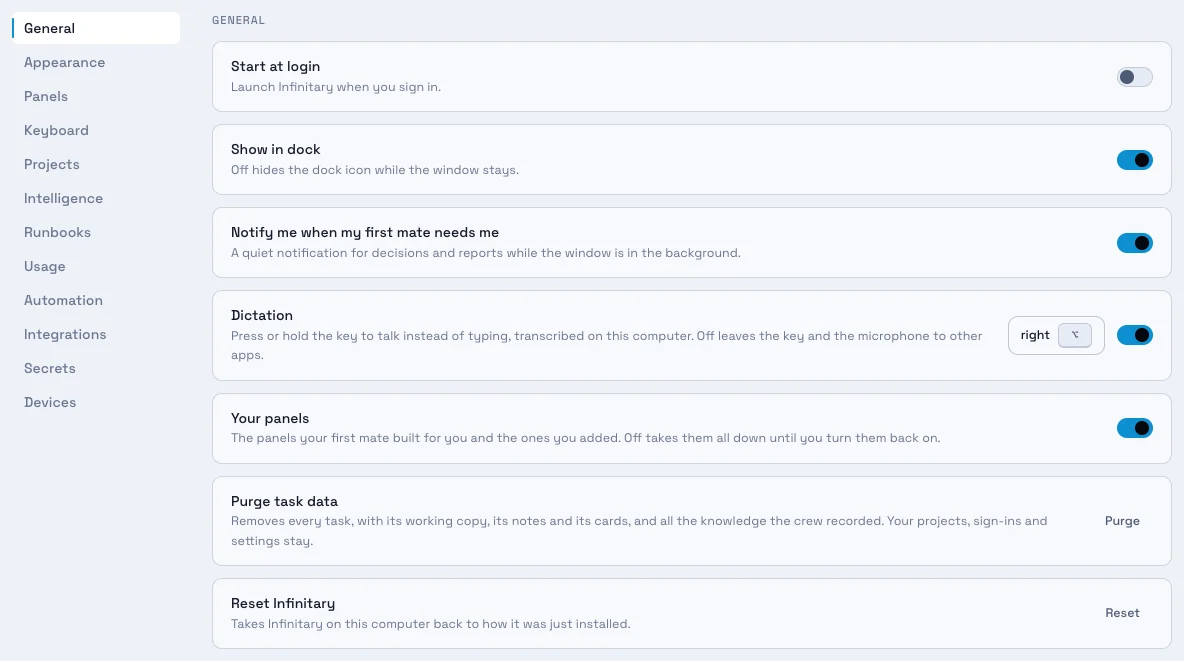
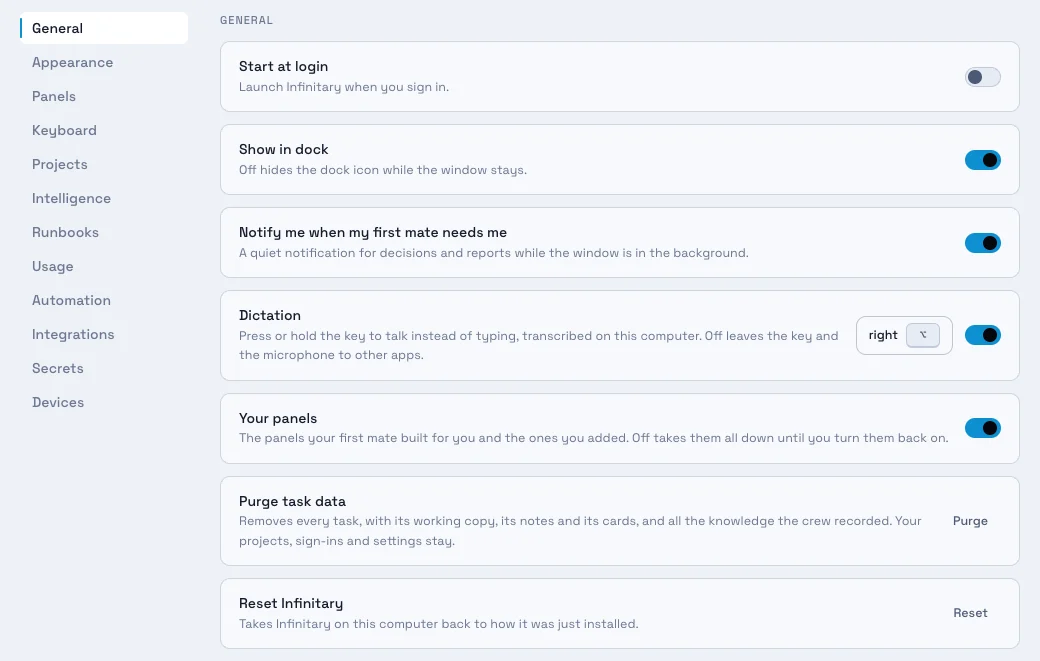
docs(docs-site): retake the Settings picture at the earlier picture's scale
The retaken pair was wider than the pair it replaced, which drew its
text smaller on the page. This pair comes from a window as wide as the
earlier picture's, so the rows read at the same size and the picture is
taller by the Reset Infinitary row alone.

diff --git a/docs-site/src/content/docs/de/settings.md b/docs-site/src/content/docs/de/settings.md
@@ -1,5 +1,5 @@
 ---
-source: a0cdeb238cc2527f
+source: ea34c1740306756c
 title: Einstellungen
 description: Was jeder Bereich der Einstellungen enthält – Allgemein und Erscheinungsbild hier erklärt, für den Rest ein Link.
 ---
@@ -10,8 +10,8 @@ Die Pfeiltasten nach oben und unten wechseln zwischen ihnen, und Escape oder **Z
 
 Du kannst deinen ersten Offizier auch bitten, eine Einstellung für dich zu ändern, etwa „Wechsle zum hellen Design“ oder „Schalte Ambient-Musik ein“.
 
-<img class="picture-dark" src="/pictures/settings-dark.webp" alt="Die Einstellungen sind auf „Allgemein“ geöffnet: links die zwölf Bereiche von „Allgemein“ bis „Geräte“, daneben die Zeilen „Bei Anmeldung starten“, „Im Dock anzeigen“, Benachrichtigung, „Diktat“, „Deine Panels“, „Aufgabendaten endgültig löschen“ und „Infinitary zurücksetzen“." width="1184" height="661" />
-<img class="picture-light" src="/pictures/settings-light.webp" alt="Die Einstellungen sind auf „Allgemein“ geöffnet: links die zwölf Bereiche von „Allgemein“ bis „Geräte“, daneben die Zeilen „Bei Anmeldung starten“, „Im Dock anzeigen“, Benachrichtigung, „Diktat“, „Deine Panels“, „Aufgabendaten endgültig löschen“ und „Infinitary zurücksetzen“." width="1184" height="661" />
+<img class="picture-dark" src="/pictures/settings-dark.webp" alt="Die Einstellungen sind auf „Allgemein“ geöffnet: links die zwölf Bereiche von „Allgemein“ bis „Geräte“, daneben die Zeilen „Bei Anmeldung starten“, „Im Dock anzeigen“, Benachrichtigung, „Diktat“, „Deine Panels“, „Aufgabendaten endgültig löschen“ und „Infinitary zurücksetzen“." width="1040" height="661" />
+<img class="picture-light" src="/pictures/settings-light.webp" alt="Die Einstellungen sind auf „Allgemein“ geöffnet: links die zwölf Bereiche von „Allgemein“ bis „Geräte“, daneben die Zeilen „Bei Anmeldung starten“, „Im Dock anzeigen“, Benachrichtigung, „Diktat“, „Deine Panels“, „Aufgabendaten endgültig löschen“ und „Infinitary zurücksetzen“." width="1040" height="661" />
 
 ## Die Bereiche {#the-sections}
 

diff --git a/docs-site/src/content/docs/fr/settings.md b/docs-site/src/content/docs/fr/settings.md
@@ -1,5 +1,5 @@
 ---
-source: a0cdeb238cc2527f
+source: ea34c1740306756c
 title: Réglages
 description: Ce que contient chaque section des Réglages, avec Général et Apparence expliqués ici et un lien pour le reste.
 ---
@@ -10,8 +10,8 @@ Les flèches haut et bas passent de l’une à l’autre, et Escape ou **Retour*
 
 Vous pouvez aussi demander à votre second de changer un réglage pour vous, par exemple « passe au thème clair » ou « active la musique d’ambiance ».
 
-<img class="picture-dark" src="/pictures/settings-dark.webp" alt="Les Réglages ouverts sur Général : les douze sections sur la gauche, de Général à Appareils, et les lignes Ouvrir à la connexion, Afficher dans le Dock, notification, Dictée, Vos panneaux, Effacer les données des tâches et Réinitialiser Infinitary." width="1184" height="661" />
-<img class="picture-light" src="/pictures/settings-light.webp" alt="Les Réglages ouverts sur Général : les douze sections sur la gauche, de Général à Appareils, et les lignes Ouvrir à la connexion, Afficher dans le Dock, notification, Dictée, Vos panneaux, Effacer les données des tâches et Réinitialiser Infinitary." width="1184" height="661" />
+<img class="picture-dark" src="/pictures/settings-dark.webp" alt="Les Réglages ouverts sur Général : les douze sections sur la gauche, de Général à Appareils, et les lignes Ouvrir à la connexion, Afficher dans le Dock, notification, Dictée, Vos panneaux, Effacer les données des tâches et Réinitialiser Infinitary." width="1040" height="661" />
+<img class="picture-light" src="/pictures/settings-light.webp" alt="Les Réglages ouverts sur Général : les douze sections sur la gauche, de Général à Appareils, et les lignes Ouvrir à la connexion, Afficher dans le Dock, notification, Dictée, Vos panneaux, Effacer les données des tâches et Réinitialiser Infinitary." width="1040" height="661" />
 
 ## Les sections {#the-sections}
 

diff --git a/docs-site/src/content/docs/es/settings.md b/docs-site/src/content/docs/es/settings.md
@@ -1,5 +1,5 @@
 ---
-source: a0cdeb238cc2527f
+source: ea34c1740306756c
 title: Configuración
 description: Lo que contiene cada sección de Configuración, con General y Apariencia explicadas aquí y un enlace para el resto.
 ---
@@ -10,8 +10,8 @@ Las flechas arriba y abajo se mueven entre ellas, y Escape o **Atrás** salen de
 
 También puedes pedirle a tu primer oficial que cambie una opción por ti, como «cambia al tema claro» o «activa la música ambiental».
 
-<img class="picture-dark" src="/pictures/settings-dark.webp" alt="Configuración abierta en General: las doce secciones a la izquierda, de General a Devices, y las filas Start at login, Show in dock, notificaciones, Dictation, Your panels, Purge task data y Reset Infinitary." width="1184" height="661" />
-<img class="picture-light" src="/pictures/settings-light.webp" alt="Configuración abierta en General: las doce secciones a la izquierda, de General a Devices, y las filas Start at login, Show in dock, notificaciones, Dictation, Your panels, Purge task data y Reset Infinitary." width="1184" height="661" />
+<img class="picture-dark" src="/pictures/settings-dark.webp" alt="Configuración abierta en General: las doce secciones a la izquierda, de General a Devices, y las filas Start at login, Show in dock, notificaciones, Dictation, Your panels, Purge task data y Reset Infinitary." width="1040" height="661" />
+<img class="picture-light" src="/pictures/settings-light.webp" alt="Configuración abierta en General: las doce secciones a la izquierda, de General a Devices, y las filas Start at login, Show in dock, notificaciones, Dictation, Your panels, Purge task data y Reset Infinitary." width="1040" height="661" />
 
 ## Las secciones {#the-sections}
 

diff --git a/docs-site/src/content/docs/pt-br/settings.md b/docs-site/src/content/docs/pt-br/settings.md
@@ -1,5 +1,5 @@
 ---
-source: a0cdeb238cc2527f
+source: ea34c1740306756c
 title: Ajustes
 description: O que cada seção dos Ajustes contém, com Geral e Aparência explicadas aqui e um link para as demais.
 ---
@@ -10,8 +10,8 @@ As setas para cima e para baixo passam de uma para outra, e Escape ou **Voltar**
 
 Você também pode pedir ao seu imediato para mudar um ajuste por você, como “mude para o tema claro” ou “ative a música ambiente”.
 
-<img class="picture-dark" src="/pictures/settings-dark.webp" alt="Ajustes abertos em Geral: as doze seções à esquerda, de Geral a Dispositivos, e as linhas Abrir ao fazer login, Mostrar no Dock, avisos, Ditado, Seus painéis, Excluir dados das tarefas e Redefinir o Infinitary." width="1184" height="661" />
-<img class="picture-light" src="/pictures/settings-light.webp" alt="Ajustes abertos em Geral: as doze seções à esquerda, de Geral a Dispositivos, e as linhas Abrir ao fazer login, Mostrar no Dock, avisos, Ditado, Seus painéis, Excluir dados das tarefas e Redefinir o Infinitary." width="1184" height="661" />
+<img class="picture-dark" src="/pictures/settings-dark.webp" alt="Ajustes abertos em Geral: as doze seções à esquerda, de Geral a Dispositivos, e as linhas Abrir ao fazer login, Mostrar no Dock, avisos, Ditado, Seus painéis, Excluir dados das tarefas e Redefinir o Infinitary." width="1040" height="661" />
+<img class="picture-light" src="/pictures/settings-light.webp" alt="Ajustes abertos em Geral: as doze seções à esquerda, de Geral a Dispositivos, e as linhas Abrir ao fazer login, Mostrar no Dock, avisos, Ditado, Seus painéis, Excluir dados das tarefas e Redefinir o Infinitary." width="1040" height="661" />
 
 ## As seções {#the-sections}
 

diff --git a/docs-site/src/content/docs/settings.md b/docs-site/src/content/docs/settings.md
@@ -9,8 +9,8 @@ The up and down arrows move between them, and Escape or **Back** leaves Settings
 
 You can also ask your first mate to change a setting for you, such as "switch to the light theme" or "turn on ambient music".
 
-<img class="picture-dark" src="/pictures/settings-dark.webp" alt="Settings open on General: the twelve sections down the left, from General to Devices, and the Start at login, Show in dock, notification, Dictation, Your panels, Purge task data and Reset Infinitary rows." width="1184" height="661" />
-<img class="picture-light" src="/pictures/settings-light.webp" alt="Settings open on General: the twelve sections down the left, from General to Devices, and the Start at login, Show in dock, notification, Dictation, Your panels, Purge task data and Reset Infinitary rows." width="1184" height="661" />
+<img class="picture-dark" src="/pictures/settings-dark.webp" alt="Settings open on General: the twelve sections down the left, from General to Devices, and the Start at login, Show in dock, notification, Dictation, Your panels, Purge task data and Reset Infinitary rows." width="1040" height="661" />
+<img class="picture-light" src="/pictures/settings-light.webp" alt="Settings open on General: the twelve sections down the left, from General to Devices, and the Start at login, Show in dock, notification, Dictation, Your panels, Purge task data and Reset Infinitary rows." width="1040" height="661" />
 
 ## The sections
 
